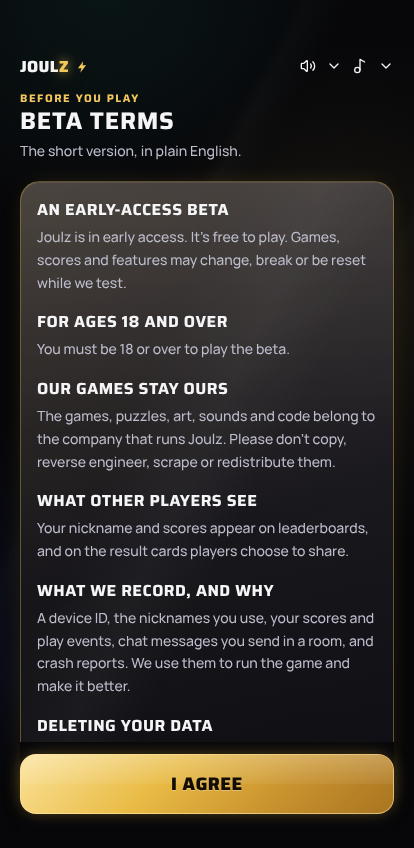
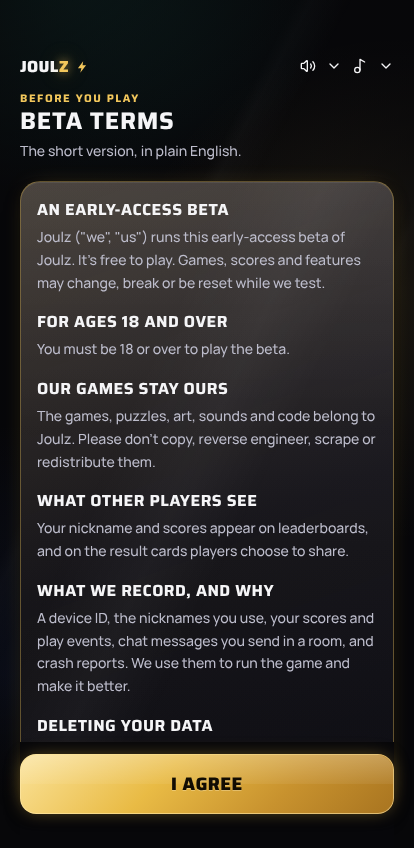
Beta terms never interrupt a room in progress; name Joulz in the terms; Launch night
No scoring, game or stamp changes.

- The room route gates only its link join (an entry point for a device not in
  the room): a device that hasn't agreed but is already in a room sees its
  lobby, rounds, reveals and results without the terms, and is asked at its
  next entry point (Create, Join, a room link's join, /daily, /challenge).
  beta-extras-check proves both (nine room phases, then Create).
- The terms name the operator as Joulz ("we", "us"); the chat line stays.
- Public games: "Beta launch night" is now "Launch night".
- docs/beta-sql.md section 11: how long a lobby lives (no timed cleanup; the
  stale-host rule disbands a lobby when other players are waiting and the
  host hasn't been seen for 2 minutes) and what that means for the JULZ room.

Claude-Session: https://claude.ai/code/session_01U9rYrq75pwQ2CxcxxSAErY

Changed region(s): [[0.087, 0.4906, 0.8986, 0.5519], [0.087, 0.2759, 0.8696, 0.3679]]

diff --git a/scripts/beta-extras-check.ts b/scripts/beta-extras-check.ts
@@ -52,7 +52,7 @@ import { iphoneSafari } from "../src/lib/playCards";
 import { ONBOARDING_KEY } from "../src/lib/onboarding";
 import { IPHONE11_APP, emulateDevice } from "./device-emulation";
 import { startSafeAreaServer } from "./safe-area-server";
-import { CHROMIUM_PATHS, IPHONE_SAFARI_UA, THEME_SCREENS, VIEWPORTS, openThemeScreen } from "./theme-screens";
+import { CHROMIUM_PATHS, IPHONE_SAFARI_UA, THEME_SCREENS, VIEWPORTS, openThemeScreen, room as roomAt } from "./theme-screens";
 
 const args = process.argv.slice(2);
 const VERBOSE = args.includes("--verbose");
@@ -300,7 +300,9 @@ try {
       check(!(await calls(page)).includes("createRoom"), "no room is created before I AGREE");
       check((await page.locator("[data-terms-contact]").count()) === 0, "CONTACT_EMAIL empty: no contact line");
       const text = (await page.locator("[data-terms-content]").textContent()) ?? "";
-      for (const phrase of ["early access", "free", "18", "copy", "reverse engineer", "scrape", "redistribute", "leaderboards", "share", "device ID", "nicknames", "scores", "crash reports", "run the game", "delete your data"])
+      check(text.includes('Joulz ("we", "us")') && !/the company/.test(text), "the terms name the operator: Joulz (\"we\", \"us\")");
+      check(text.includes("chat messages you send in a room"), "what we record includes room chat");
+      for (const phrase of ["early-access beta", "free", "18", "copy", "reverse engineer", "scrape", "redistribute", "leaderboards", "share", "device ID", "nicknames", "scores", "crash reports", "run the game", "delete your data"])
         check(text.includes(phrase), `the terms say "${phrase}"`);
       check(text.includes("Joulz") && !text.includes("Duelz"), "the terms use the app's name");
       await page.getByRole("button", { name: "I agree" }).click();
@@ -321,9 +323,46 @@ try {
     }
   }
 
-  /* A room link, the daily and a challenge show the terms first, then the screen. */
+  /* Never inside a room in progress: a device that hasn't agreed and is already in a room (its lobby,
+     rounds, reveals, results, final screen) sees the room, not the terms; its next entry point shows them. */
+  {
+    const phases: [string, () => unknown][] = [
+      ["lobby", roomAt("waiting", "starting")],
+      ["Prepare to Duel", roomAt("in_progress", "starting")],
+      ["round title", roomAt("in_progress", "round_title")],
+      ["round intro", roomAt("in_progress", "intro")],
+      ["live round", roomAt("in_progress", "puzzle")],
+      ["answer reveal", roomAt("in_progress", "reveal")],
+      ["round results", roomAt("in_progress", "result")],
+      ["standings", roomAt("in_progress", "standings")],
+      ["final screen", roomAt("finished", "standings", { players: 3 })],
+    ];
+    for (const [label, build] of phases) {
+      const { context, page } = await open("room", { query: "terms=0", harness: { room: build() } });
+      try {
+        await page.waitForTimeout(1500);
+        // Drawn: the room's screen is up (Prepare to Duel has no text in its first seconds).
+        const drawn = await page.evaluate(() => document.querySelectorAll("#root *").length > 3);
+        check(drawn && (await page.locator("[data-terms]").count()) === 0, `a room in progress (${label}): the room, never the terms`);
+        check((await page.evaluate((k) => localStorage.getItem(k), TERMS_KEY)) === null, `a room in progress (${label}): still not agreed, so the next entry point asks`);
+        if (label === "live round") {
+          // The next entry point: Create a room from the Play tab shows the terms first.
+          await page.goto(`${server.origin}/safe-area.html?mode=home&terms=0`);
+          await page.getByRole("button", { name: "Create a room" }).waitFor({ timeout: 60_000 });
+          await page.locator("#name").fill("Jo");
+          await page.getByRole("button", { name: "Create a room" }).click();
+          await page.locator("[data-terms]").waitFor({ timeout: 10_000 });
+          check(!(await calls(page)).includes("createRoom"), "after a room in progress, the next entry point (Create) shows the terms first");
+        }
+      } finally {
+        await context.close();
+      }
+    }
+  }
+
+  /* A room link (a device not in the room: its join), the daily and a challenge show the terms first, then the screen. */
   for (const [label, mode, screen] of [
-    ["a room link", "room", "lobby, 2 players"],
+    ["a room link", "room", "link join"],
     ["the daily", "daily", "daily, before playing"],
     ["a challenge", "challenge", "challenge, link opened"],
   ] as const) {
@@ -341,7 +380,8 @@ try {
     try {
       await page.locator("[data-terms]").waitFor({ timeout: 30_000 });
       check(true, `${label}: the terms first`);
-      const early = (await calls(page)).filter((name) => /^(useDuel|useRoomChat|daily|asyncAttempt|challenge)/.test(name));
+      // Nothing of the entry point behind starts: no room preview or join, no daily or challenge call.
+      const early = (await calls(page)).filter((name) => /^(fetchRoomPreview|joinRoomByCode|daily|asyncAttempt|challenge)/.test(name));
       check(early.length === 0, `${label}: nothing of the screen behind starts before I AGREE (${early.join(", ")})`);
       await page.getByRole("button", { name: "I agree" }).click();
       await page.waitForTimeout(1200);

diff --git a/src/components/beta/TermsScreen.tsx b/src/components/beta/TermsScreen.tsx
@@ -33,6 +33,9 @@ function Section({ title, children }: { title: string; children: React.ReactNode
   );
 }
 
+/** Who runs the beta: the operator the terms name ("Joulz ('we', 'us')"). */
+const OPERATOR = "Joulz";
+
 /**
  * The beta terms in plain English (/terms; shown once before a device's first room, daily or
  * challenge). Not legal advice: Joe's adviser reviews the wording before the beta. The contact line
@@ -44,8 +47,7 @@ export function TermsContent() {
     <div data-terms-content className="flex flex-col gap-4">
       <Section title="An early-access beta">
         <p>
-          {APP_NAME} is in early access. It's free to play. Games, scores and features may change,
-          break or be reset while we test.
+          {`${OPERATOR} ("we", "us") runs this early-access beta of ${APP_NAME}. It's free to play. Games, scores and features may change, break or be reset while we test.`}
         </p>
       </Section>
       <Section title="For ages 18 and over">
@@ -53,8 +55,7 @@ export function TermsContent() {
       </Section>
       <Section title="Our games stay ours">
         <p>
-          The games, puzzles, art, sounds and code belong to the company that runs {APP_NAME}.
-          Please don't copy, reverse engineer, scrape or redistribute them.
+          {`The games, puzzles, art, sounds and code belong to ${OPERATOR}. Please don't copy, reverse engineer, scrape or redistribute them.`}
         </p>
       </Section>
       <Section title="What other players see">

diff --git a/src/routes/duel.$code.tsx b/src/routes/duel.$code.tsx
@@ -168,17 +168,8 @@ export const Route = createFileRoute("/duel/$code")({
       },
     ],
   }),
-  component: GatedDuelScreen,
+  component: DuelScreen,
 });
-
-/** The beta terms come first: shown once on this device before its first room, daily or challenge. */
-function GatedDuelScreen() {
-  return (
-    <TermsGate>
-      <DuelScreen />
-    </TermsGate>
-  );
-}
 
 function Centered({ children }: { children: React.ReactNode }) {
   return (
@@ -789,12 +780,16 @@ function DuelScreen() {
   }
 
   // Not in the room (a room's rows are only readable by its players): the link
-  // offers a name-only join while the room is in its lobby.
+  // offers a name-only join while the room is in its lobby. That join is an entry point, so the
+  // beta terms come first there (once per device); a device already in the room (its lobby, rounds,
+  // reveals or results) is never interrupted by them: it sees them at its next entry point.
   if (state.notFound || !duel || !me || (me.status === "left" && duel.status === "waiting")) {
     return (
-      <Centered>
-        <JoinFromLink roomCode={roomCode} onJoined={state.refresh} />
-      </Centered>
+      <TermsGate>
+        <Centered>
+          <JoinFromLink roomCode={roomCode} onJoined={state.refresh} />
+        </Centered>
+      </TermsGate>
     );
   }
 

diff --git a/src/components/beta/TermsGate.tsx b/src/components/beta/TermsGate.tsx
@@ -5,9 +5,10 @@ import { termsAgreed } from "@/lib/beta/terms";
 import { TermsScreen } from "./TermsScreen";
 
 /**
- * Shows the beta terms in place of a room, daily or challenge until this device has agreed (once,
- * lib/beta/terms.ts), then the screen itself. The routes it wraps render on the phone only (ssr: false),
- * so the first render already knows: no flash of either.
+ * Shows the beta terms at an entry point (a room link's join, the daily, a challenge) until this
+ * device has agreed (once, lib/beta/terms.ts), then the screen itself. Never inside a room the device
+ * is already in: the room route gates only its link join. The screens it wraps render on the phone
+ * only (ssr: false), so the first render already knows: no flash of either.
  */
 export function TermsGate({ children }: { children: ReactNode }) {
   const [agreed, setAgreed] = useState(() => termsAgreed());

diff --git a/src/config/publicGames.ts b/src/config/publicGames.ts
@@ -34,6 +34,6 @@ export interface PublicGameConfig {
 export const PUBLIC_ROOM_CODE = "JULZ";
 
 export const PUBLIC_GAMES: PublicGameConfig[] = [
-  { date: "2026-10-27", time: "20:00", lobbyOpens: "19:45", rounds: 6, roomCode: PUBLIC_ROOM_CODE, title: "Beta launch night" },
+  { date: "2026-10-27", time: "20:00", lobbyOpens: "19:45", rounds: 6, roomCode: PUBLIC_ROOM_CODE, title: "Launch night" },
   { date: "2026-10-29", time: "20:00", lobbyOpens: "19:45", rounds: 6, roomCode: PUBLIC_ROOM_CODE, title: "Thursday night game" },
 ];

diff --git a/AGENTS.md b/AGENTS.md
@@ -65,4 +65,4 @@
 - The app shell (18 Oct 2026, presentation and device storage only): the bottom tab bar (AppTabBar: Play, Practice, Tournaments, Profile) is drawn only by PhoneShell `tabs` on those four screens, never in a room, round, result, podium or game; Play is the back-stack root (tabs from Play push, tab to tab replaces). Profile's rooms, wins and podiums come from this device's own record of the finished games it showed (deviceHistory, written by the room route without changing what it draws), because Play again deletes a room's results on the server. Public games are an ordinary room with a known code, scheduled in src/config/publicGames.ts (UK time). Game icons are each game's own art (renderer or art component), no text. scripts/app-shell-check.ts proves it. Why: one home for rooms, practice, public games and the player's own record without touching gameplay.
 - Async rooms and the daily challenge (21 Oct 2026; src/lib/duel/asyncRoom.server.ts, daily.server.ts): rounds dealt once on the server from a seed and stored, each player's round starting on the server when they tap READY (the puzzle is sent only then) and graded by gradeRoomAnswer from that start; one attempt per device per room; the board (room tie-break, count from 20) opens to a player once they finish or the day closes; clients never write the tables and read only leaderboard columns; the Play card hides until the tables exist. scripts/daily-check.ts proves it. Why: everyone gets the same daily on their own time, with the room's fairness and grading, and publishing before the migration is safe.
 - Sharing a result (21 Oct 2026, presentation and beta recording only; src/lib/share/, src/components/share/): every share goes through shareResult() (the share sheet with the link in the text and the card attached where files can be shared, else copy and "Copied"); what a room shares (roomShare.ts) and draws (resultCard.ts) comes only from what its final screen shows every player, never an answer or puzzle; the card is drawn before the tap because iOS opens the sheet only straight from one; share_events counts (a tap, an arrival from ?ref=share, that arrival's first finished room) are fire-and-forget and never block; a shared link is always the room's, decided when opened (JoinFromLink: the lobby's join while a newcomer can join, a seat free; else a redirect to the home), where a first arrival sees the Play tab's one-time welcome card (ShareWelcomeCard; a lobby landing gets none). scripts/share-check.ts proves it. Why: new players from beta shares without touching rooms, rounds or scoring.
-- Beta extras (22 Oct 2026; src/config/betaConfig.ts): every value Joe supplies later is one string there, and an empty one switches its feature off cleanly (crash reporting never starts, feedback links and the terms contact line are hidden); crash reports carry ids only (device type, screen, route pattern, game id, round, release) and never block or rethrow; the beta terms gate a device's first room, daily or challenge once (TermsGate, the Play tab's Create/Join); the Add to Home Screen hint is a reserved Play tab slot on iPhone Safari only, shown once. scripts/beta-extras-check.ts proves it. Why: the beta can ship before the values exist, with no personal data in crash reports and nothing popping in.
+- Beta extras (22 Oct 2026; src/config/betaConfig.ts): every value Joe supplies later is one string there, and an empty one switches its feature off cleanly (crash reporting never starts, feedback links and the terms contact line are hidden); crash reports carry ids only (device type, screen, route pattern, game id, round, release) and never block or rethrow; the beta terms gate a device's entry points once (TermsGate: a room link's join, /daily, /challenge, the Play tab's Create/Join) and never appear inside a room the device is already in; the Add to Home Screen hint is a reserved Play tab slot on iPhone Safari only, shown once. scripts/beta-extras-check.ts proves it. Why: the beta can ship before the values exist, with no personal data in crash reports and nothing popping in.

diff --git a/docs/beta-sql.md b/docs/beta-sql.md
@@ -1330,8 +1330,27 @@ WHERE room_code = 'ABCD'
   AND NOT EXISTS (SELECT 1 FROM public.duels WHERE room_code = 'JULZ');
 ```
 
-3. Reopen the room on the host phone (Rejoin, or /duel/JULZ). Players join from Tournaments → Join now
-   (or the code) once the lobby opens; the host starts the game at 20:00.
+3. **Straight away**, reopen the room on the host phone at `/duel/JULZ` (Rejoin on the Play tab, or the
+   address). The page still open on `/duel/ABCD` looks the room up by its old code, so it stops finding it
+   and stops the host's heartbeat. Players join from Tournaments → Join now (or the code) once the lobby
+   opens; the host starts the game at 20:00.
+
+**How long a lobby lives, and what closes it** (`disband_stale_room`, migration 20260923170429, called by
+`checkHostPresenceFn`):
+
+- Nothing deletes or closes a lobby on a timer: an empty lobby (only the host) stays open indefinitely.
+- The one automatic close is the *stale host* rule: while the room is in its lobby, every other player's
+  phone asks the server every 8 s whether the host has been seen in the last **2 minutes**; if not, the
+  room is disbanded (and a disbanded room keeps its code, so JULZ would be gone for Thursday too).
+- The host is "seen" through a heartbeat every 4 s while the room screen is open in the foreground. On an
+  iPhone, locking the phone or switching apps pauses it; reopening resumes it.
+
+So: made at about 19:15 and renamed straight away, the room is safe until 20:00 **as long as the host
+phone is back on the room screen before anyone joins** (19:45 onwards) and then stays on it, unlocked and
+in the foreground. A lock or app switch before anyone has joined is harmless once the host returns; a
+lock or app switch of more than 2 minutes once players are waiting disbands the room within about 8 s of
+the next player check. Set the host phone's Auto-Lock to Never for the evening and keep the room open.
+During the game itself (after Start) the rule no longer applies.
 
 After Tuesday's game the host taps **Play again** on the final screen, which keeps the room and its code
 for Thursday. If the room is disbanded instead, it keeps the code JULZ (codes are unique and stored rooms

diff --git a/CLAUDE.md b/CLAUDE.md
@@ -402,7 +402,8 @@ Lovable still hosts and publishes the app (https://brain-blitz-duel.lovable.app)
   (`useCrashContext` in the room, practice and async runs), the commit as release, no user, names, chat, answers or
   breadcrumbs, no performance data; it only observes, so a round always carries on; `/dev-crash` (development only) raises
   each kind. *Beta terms* (`/terms`, `TermsScreen`, `lib/beta/terms.ts`): shown once before a device's first room (the
-  room route, Create and Join), daily or challenge (`TermsGate`), I AGREE stored as `duelz-terms:v1` with its date and
+  room link's join, Create and Join), daily or challenge (`TermsGate`; never inside a room the device is already in: its
+  lobby, rounds, reveals and results show without them, and its next entry point asks), I AGREE stored as `duelz-terms:v1` with its date and
   sent once to `terms_events` (`supabase/migrations/20261023120000_beta_terms_events.sql`, **written but not applied**);
   Profile → settings → Beta terms. The screen harnesses seed an agreement unless `?terms=0`. *Add to Home Screen hint*
   (`HomeScreenHint`): the Play tab's `homescreen` PlaySlot, reserved by the boot script on iPhone Safari outside a
